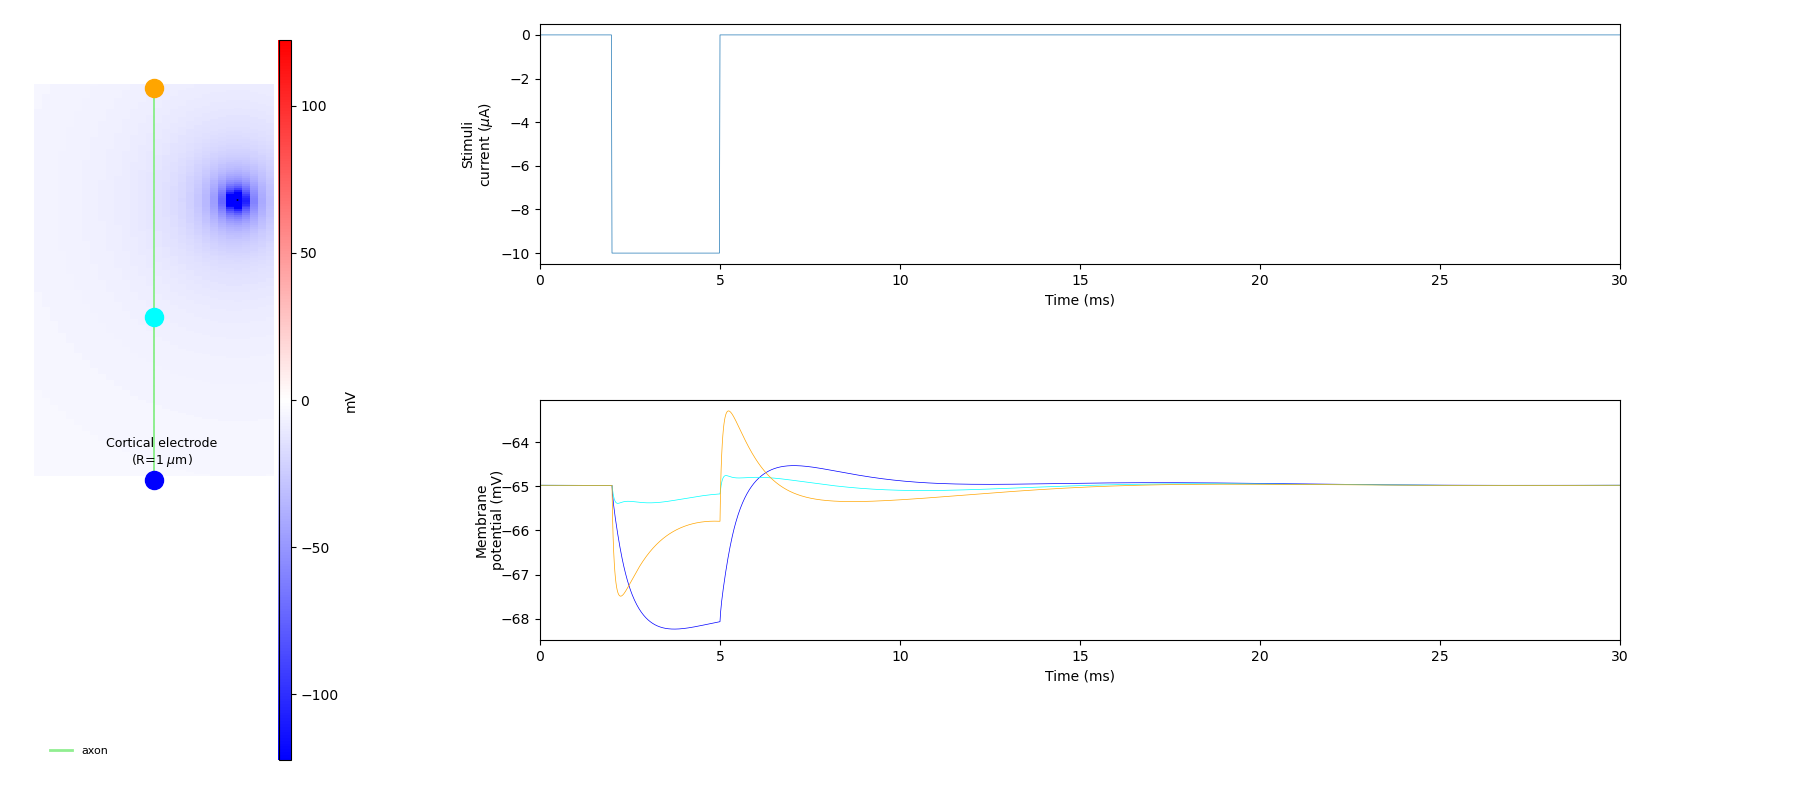
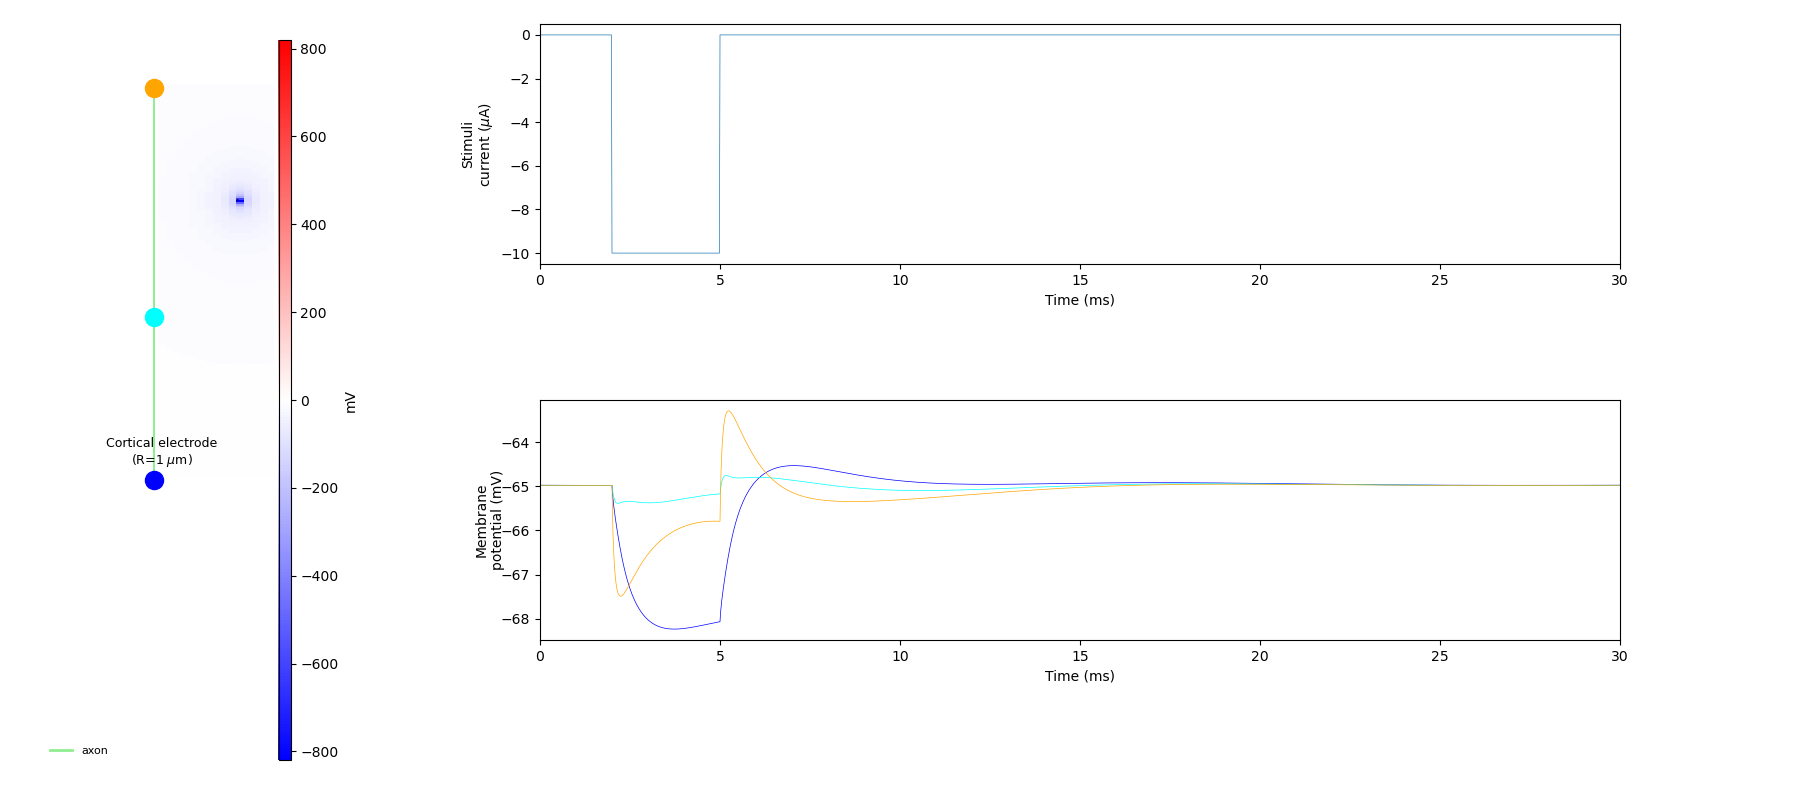
Added functions for finding maximum or steady state of membrane potential and absolute distance between electrode and measurement points WIP

diff --git a/main.py b/main.py
@@ -120,6 +120,20 @@ class ExternalPotentialSim:
 
         self.cell.insert_v_ext(v_cell_ext, t)
 
+    def _find_stable_state(self):
+        v_ss = np.max(self.cell.vmem)
+        v_ss_idx = np.argmax(self.cell.vmem)
+
+    def _record_dist_to_electrode(self, measure_idxs):
+
+        self.reord_dist = np.zeros(len(measure_idxs))
+
+        for idx, pos in enumerate(measure_idxs):
+            measure_pos = (
+                self.cell.xmid[pos], self.cell.ymid[pos], self.cell.zmid[pos])
+            self.record_dist[idx] = np.abs(
+                measure_pos, (self.x0, self.y0, self.z0))
+
     def plot_cellsim(self, measure_idxs):
         # Simulating cell after all parameters and field has been added
         self.cell.simulate(rec_vmem=True)
@@ -195,7 +209,8 @@ class ExternalPotentialSim:
 
         # Adding external field visualization to cell morphology figure
         v_field_ext = np.zeros((50, 200))
-        xf = np.linspace(-500, 500, 50)
+        # xf = np.linspace(-500, 500, 50)
+        xf = np.linspace(np.min(self.cell.zend), np.max(self.cell.zend), 50)
         zf = np.linspace(np.min(self.cell.zend), np.max(self.cell.zend), 200)
 
         for xidx, x in enumerate(xf):
@@ -245,3 +260,9 @@ class ExternalPotentialSim:
         fig, axes = plt.subplots(4, 1, sharex=True)
 
         plt.show()
+
+    def plot_currentVdistance(self, measure_idxs):
+        self.cell.simulate(rec_vmem=True)
+
+        self._find_stable_state()
+        self._record_dist_to_electrode(measure_idxs)

diff --git a/axon_single_source_pulse.py b/axon_single_source_pulse.py
@@ -51,6 +51,7 @@ def run_ext_sim(cellsimParams, elec_params, I, positions, measure_idxs, passive=
             extPotSim.extra_cellular_stimuli(monophasic_pulse_params)
             extPotSim.plot_cellsim(measure_idxs)
 
+    # Freeing up some variables
     I = None
     pos = None
     # LFPy.cell.neuron.h("forall delete_section()")
@@ -67,12 +68,14 @@ positions = [np.array([[210, 0, 700], ], dtype=float)]
 # cellsim_Hallermann_params['cell_dist_to_top'] = 900
 
 
-run_ext_sim(cellsim_Hallermann_params,
-            monophasic_pulse_params, current_amps, positions, np.array([0, 83, 300]))
+# run_ext_sim(cellsim_Hallermann_params,
+#             monophasic_pulse_params, current_amps, positions, np.array([0, 83, 300]))
 
-run_ext_sim(cellsim_bisc_stick_params,
-            monophasic_pulse_params, current_amps, positions, np.array([0, 20, 48]))
+# run_ext_sim(cellsim_bisc_stick_params,
+#             monophasic_pulse_params, current_amps, positions, np.array([0, 20, 48]))
+axon_measure_idxs = np.array([0, 20, 48])
 
-
-# extPotSim = ExternalPotentialSim(cellsim_bisc_stick_params)
-# extPotSim.plot_axialCurrent()
+extPotSim = ExternalPotentialSim(cellsim_bisc_stick_params)
+extPotSim.return_cell(cell_models_folder)
+extPotSim.extra_cellular_stimuli(monophasic_pulse_params)
+extPotSim.plot_currentVdistance(axon_measure_idxs)
